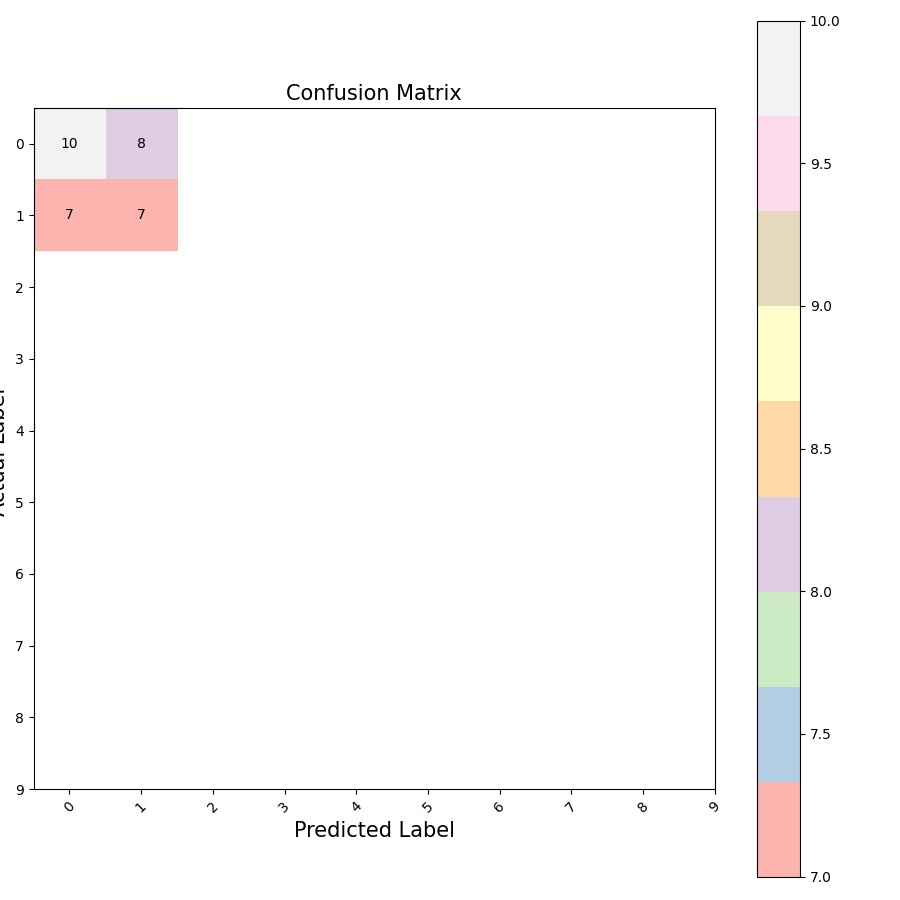
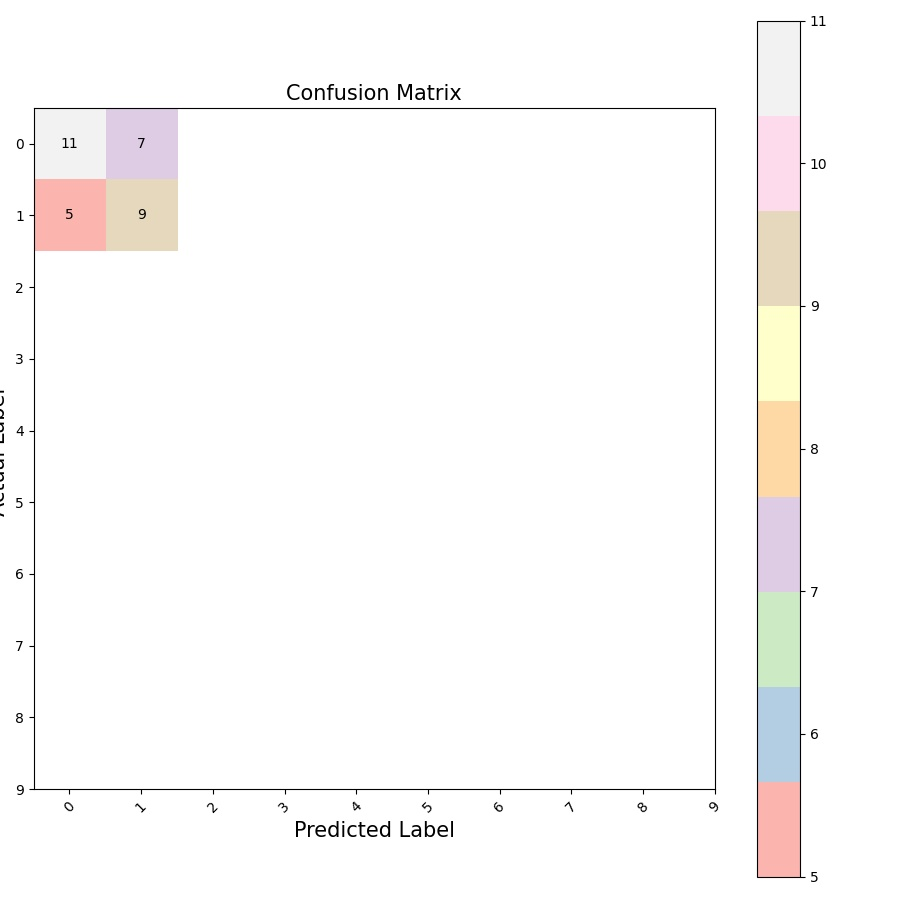
update

diff --git a/lr_classify.py b/lr_classify.py
@@ -200,6 +200,10 @@ class CustomLogisticRegression(object):
                 y_pred[0,i]=1
         return y_pred
     def get_cm(self,preds):
+        prec_score=metrics.precision_score(self.y_test.T,preds)
+        recll_score=metrics.recall_score(self.y_test.T,preds)
+        f1_score=metrics.f1_score(self.y_test.T,preds)
+        print("[INFO]   Precision Score : {} \n\tRecall Score : {} \n\tF1 Score : {} ".format(prec_score,recll_score,f1_score))
         cm=metrics.confusion_matrix(self.y_test.T,preds)
         print("[INFO]   Confusion Metrics : ",cm)
         plt.figure(figsize=(9,9))
@@ -236,7 +240,7 @@ class CustomLogisticRegression(object):
         print("[DEBG]   Hyper preds : ",hyper_preds)
         hyper_score=log_reg_ht.score(self.x_test.T,self.y_test.T)
         print("[INFO]   Prediction Accuracy : ",hyper_score)
-        # self.get_cm(hyper_preds)
+        self.get_cm(hyper_preds)
     def run(self):
         params,grads,cost_list=self.update()
         y_pred_test=self.predict(self.x_test)
